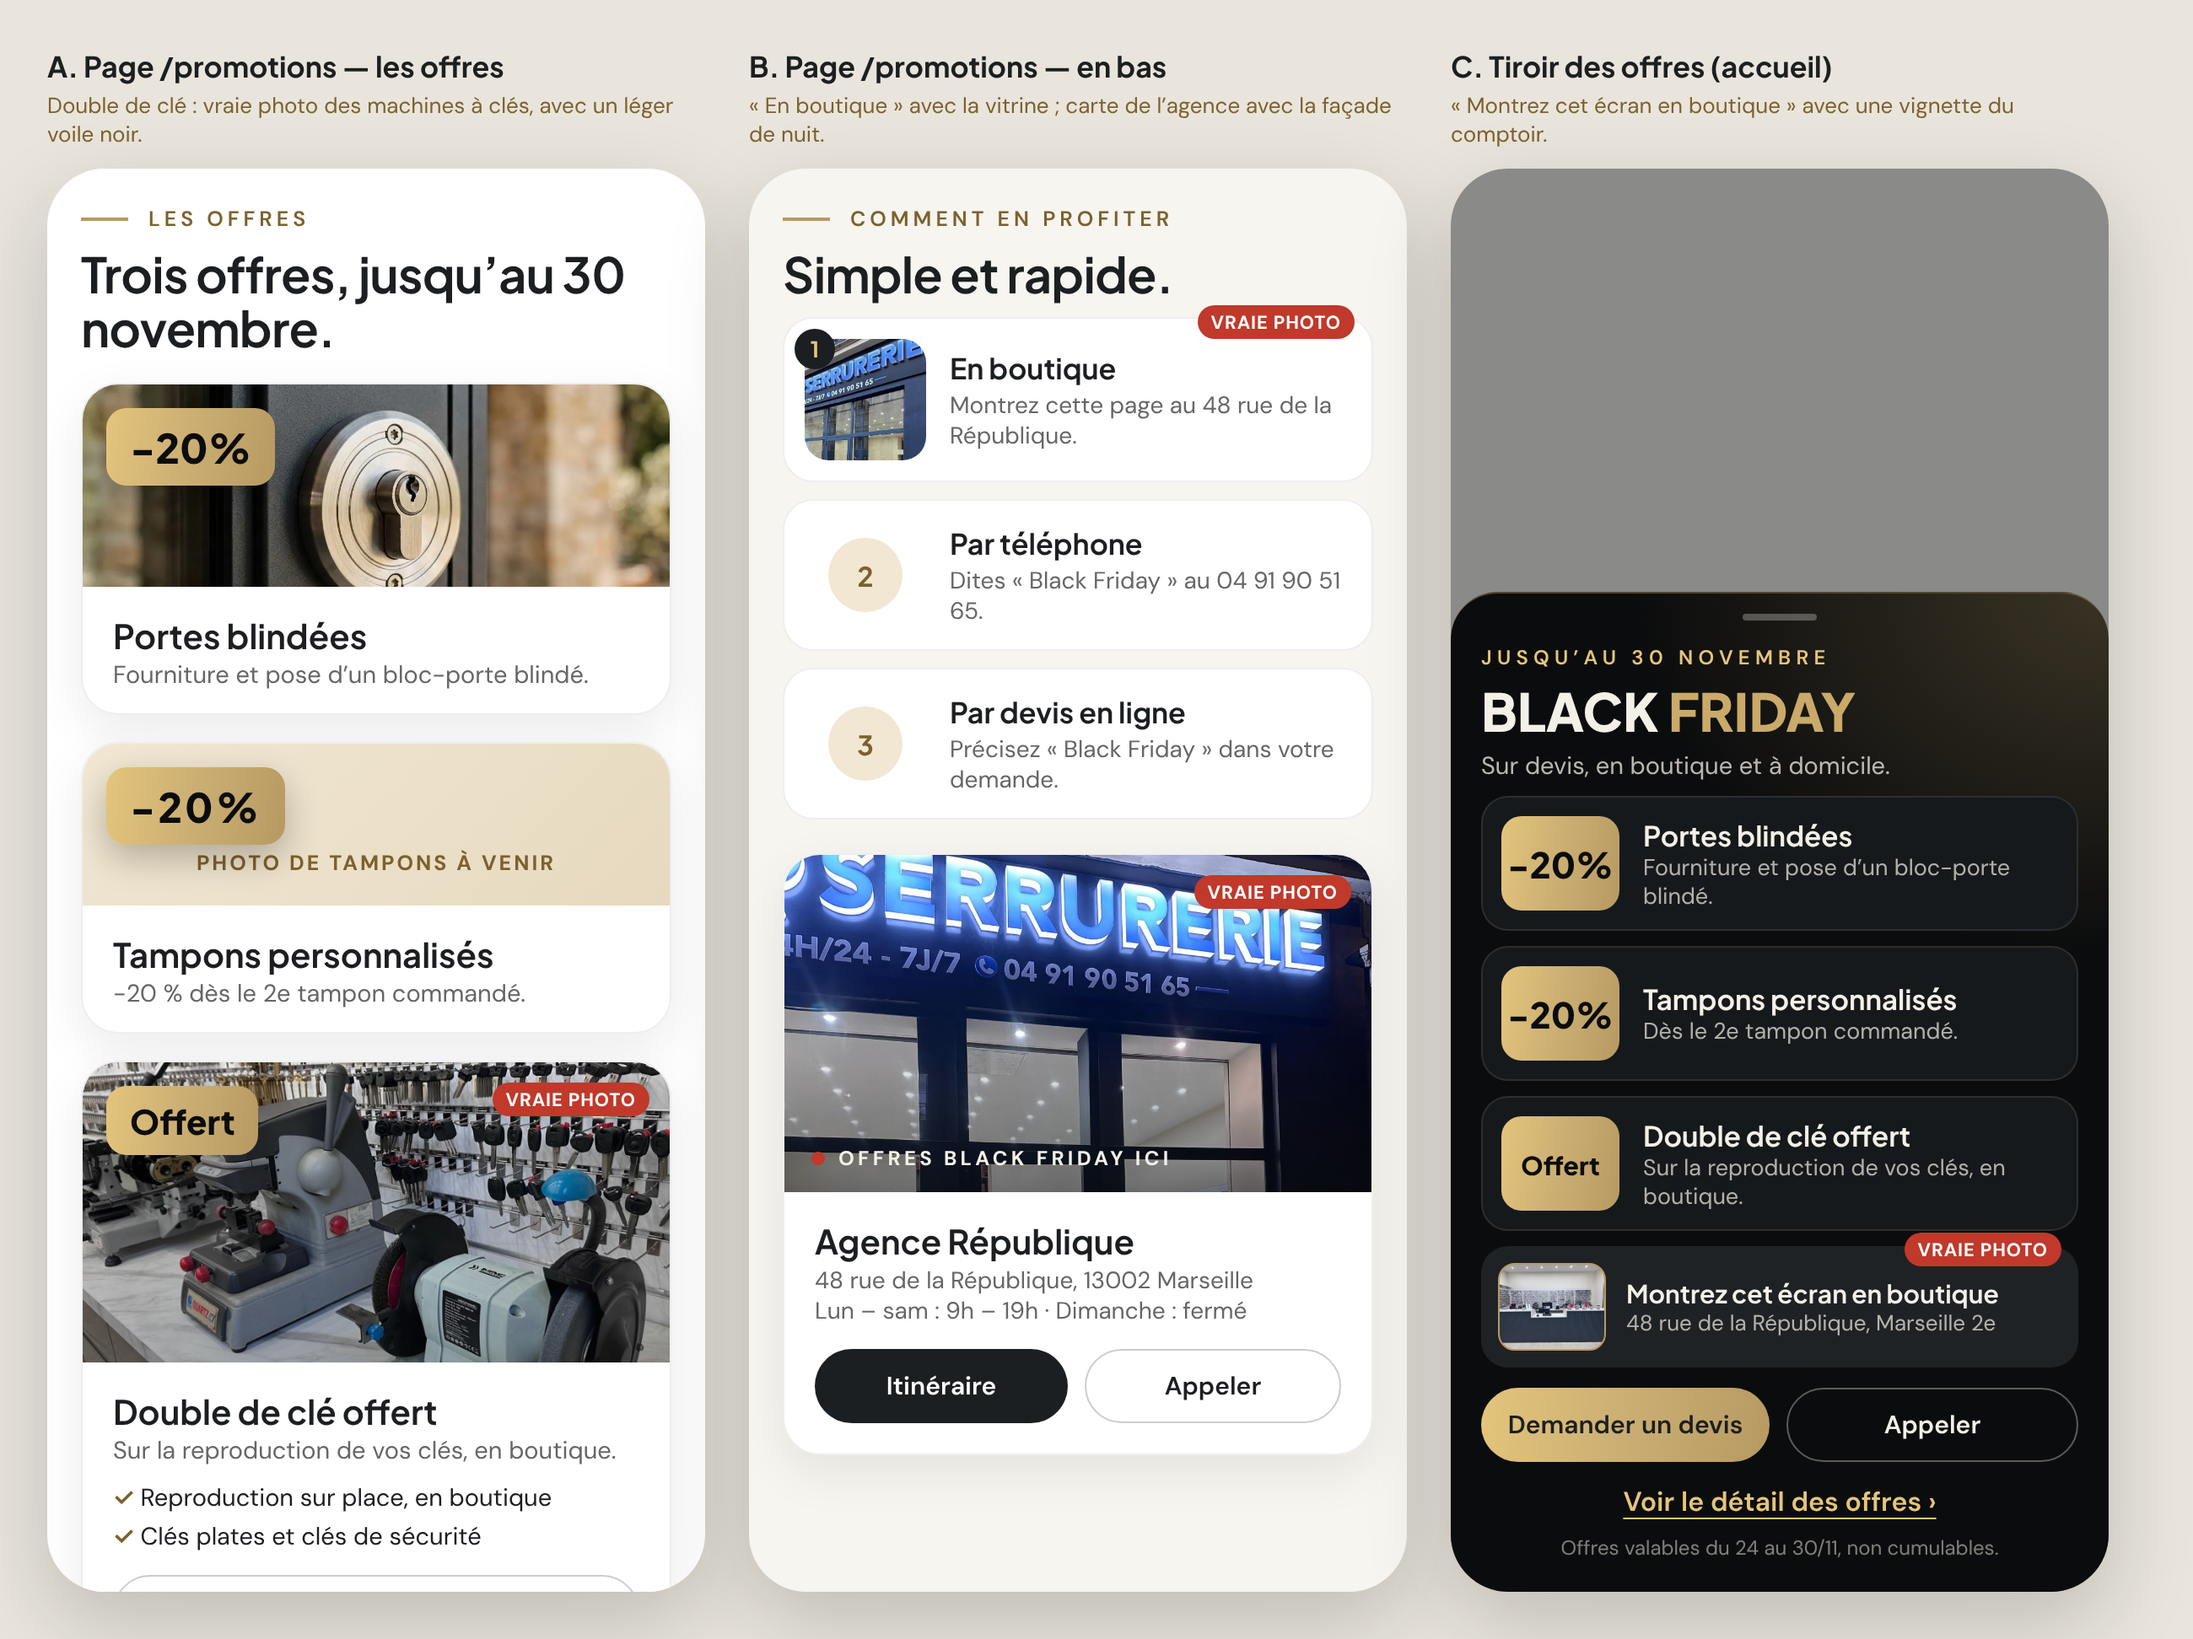
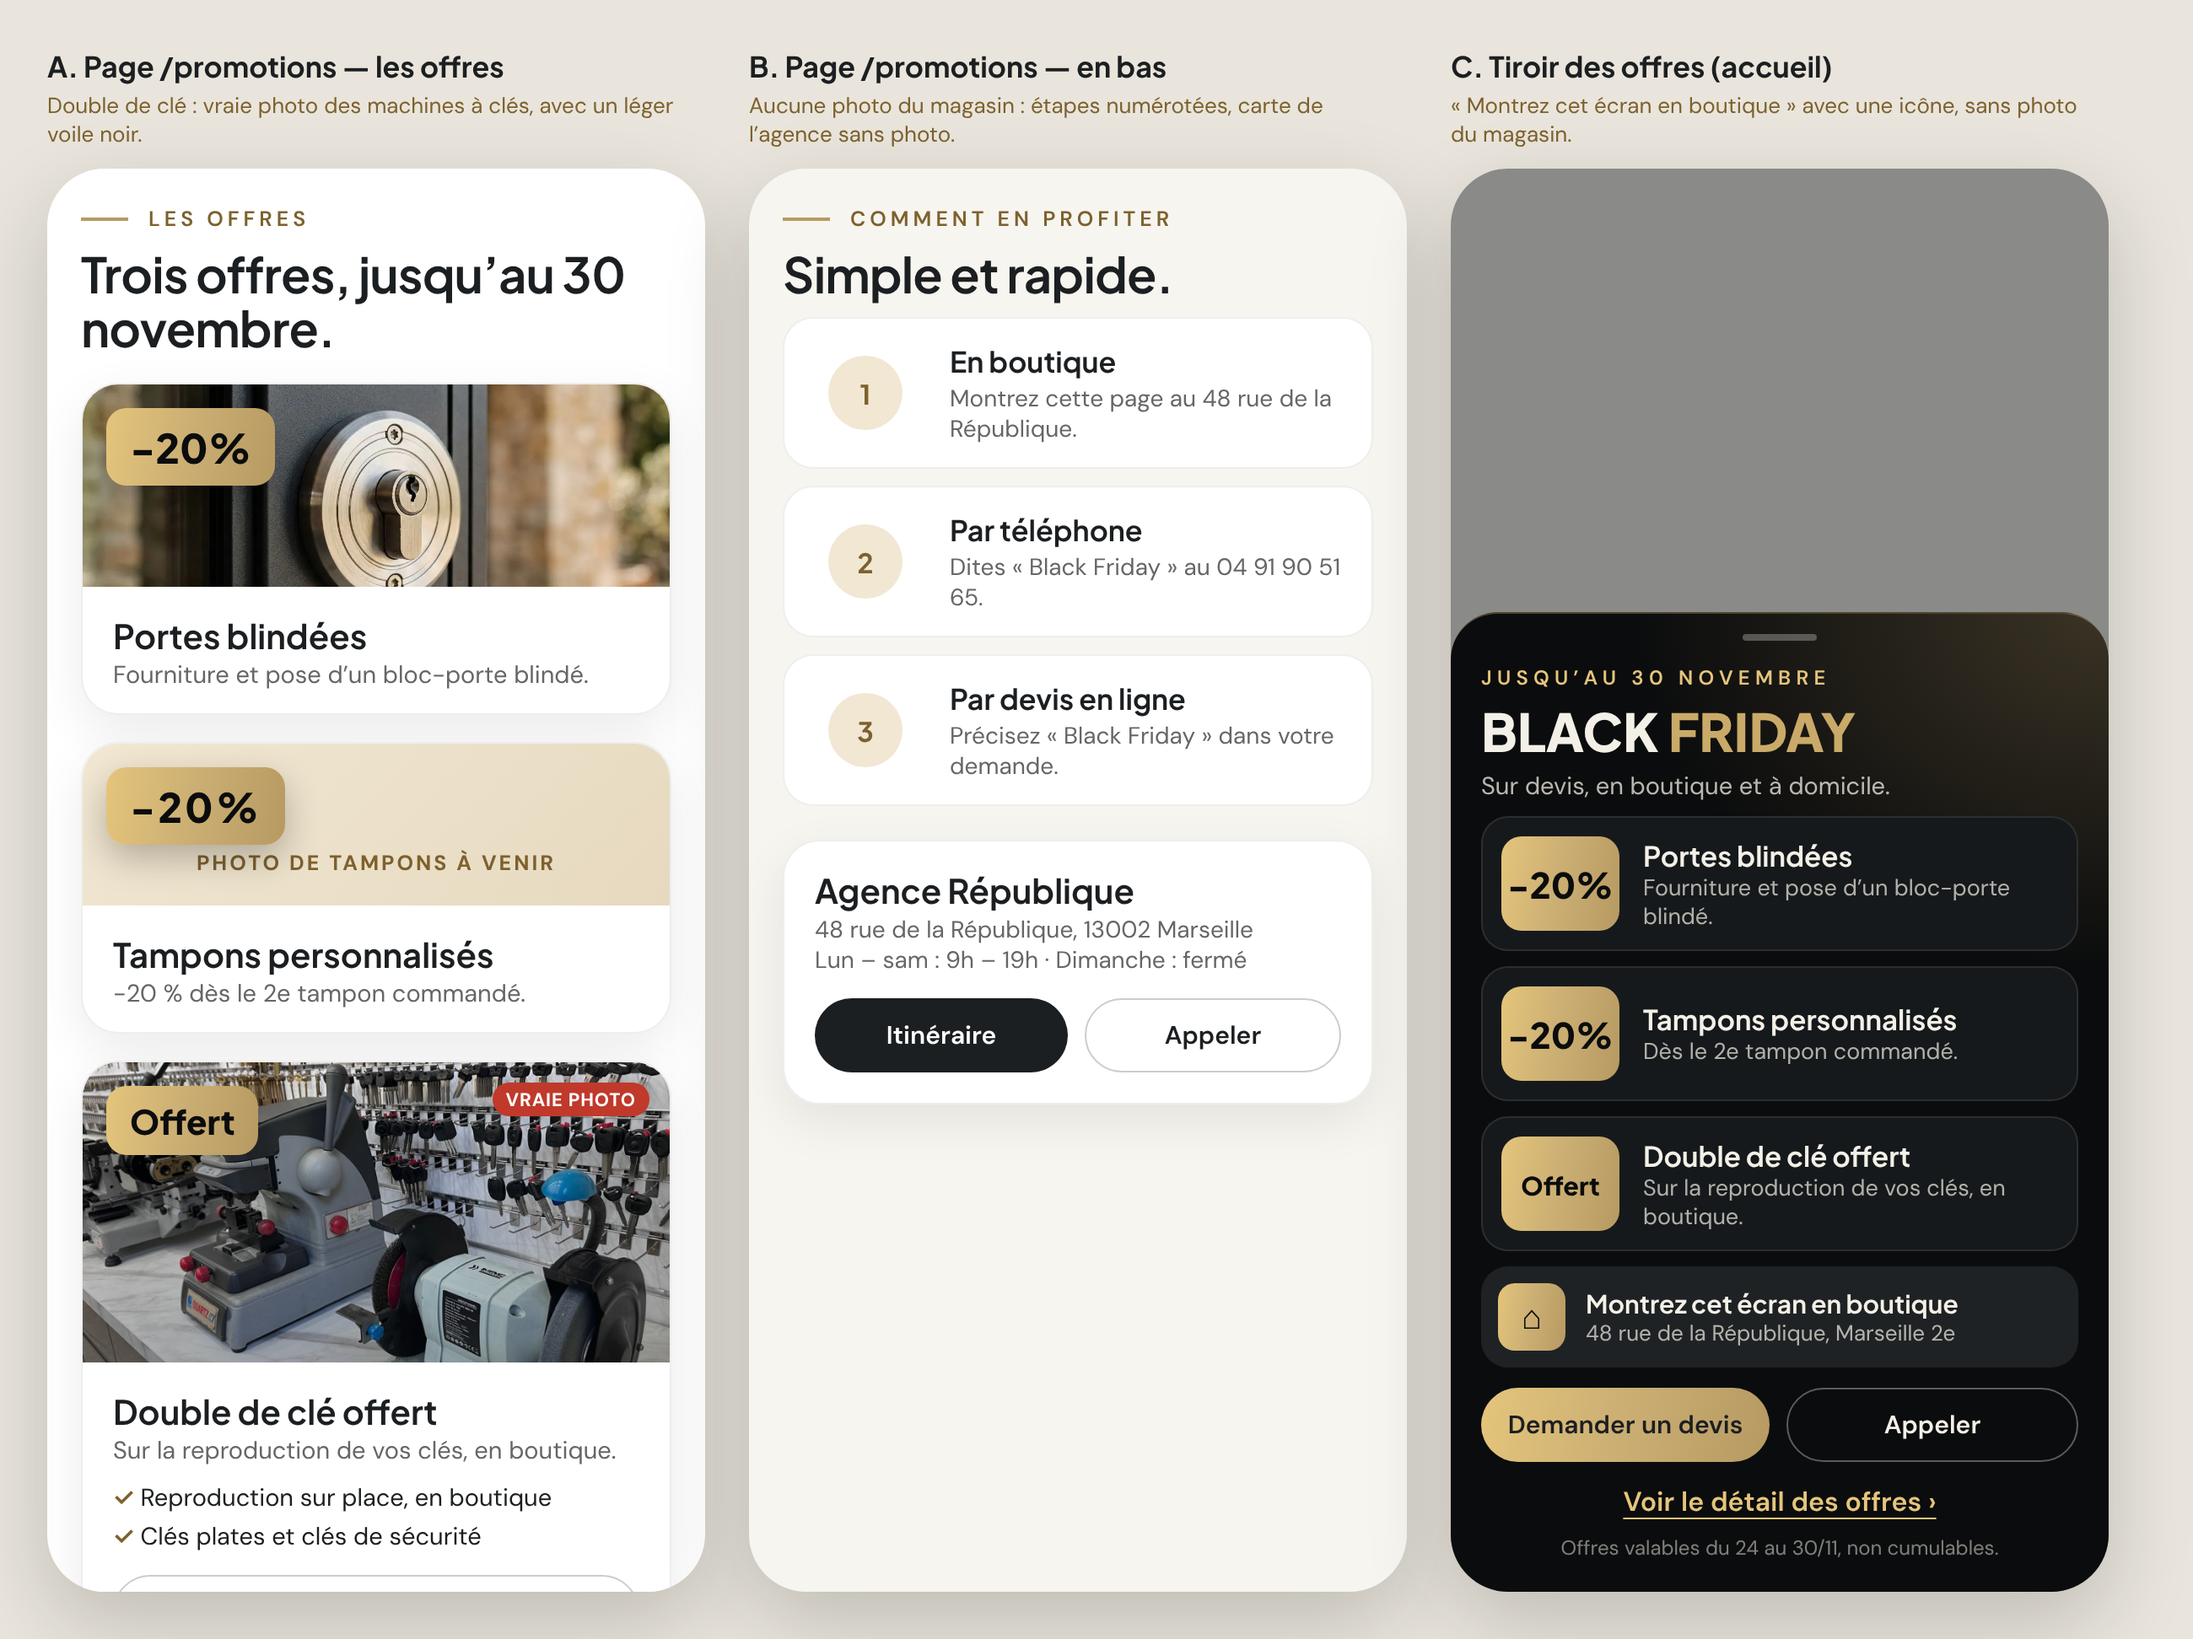
docs: maquettes Black Friday sans aucune photo du magasin (demande du client)
Claude-Session: https://claude.ai/code/session_016XxirD5zi89Axp7kPf75hL

diff --git a/docs/maquettes/black-friday/5-photos-reelles.html b/docs/maquettes/black-friday/5-photos-reelles.html
@@ -46,20 +46,17 @@ ul{list-style:none;margin-top:10px}li{font-size:14.5px;margin-top:5px}li:before{
 <div class="btn out">Venir en boutique</div></div></div>
 </div></div>
 
-<div class="col"><div class="lab">B. Page /promotions — en bas</div><div class="sub">« En boutique » avec la vitrine ; carte de l’agence avec la façade de nuit.</div>
+<div class="col"><div class="lab">B. Page /promotions — en bas</div><div class="sub">Aucune photo du magasin : étapes numérotées, carte de l’agence sans photo.</div>
 <div class="phone ivory" style="padding:22px 20px">
 <div class="kick">Comment en profiter</div><h2>Simple et rapide.</h2>
-<div class="step" style="position:relative"><span class="tag" style="right:10px;top:-8px">VRAIE PHOTO</span><div class="thumb" style="background-image:url(../../../docs/photos-reelles/facade-vitrine.jpg);background-position:center 30%"><span style="position:absolute;left:-6px;top:-6px;width:24px;height:24px;border-radius:50%;background:#1C1F21;color:#E5C57B;font-family:J;font-weight:700;font-size:13px;display:grid;place-items:center">1</span></div><div><div class="t" style="font-size:17px">En boutique</div><div class="s" style="font-size:14px">Montrez cette page au 48 rue de la République.</div></div></div>
+<div class="step" style="padding:14px 12px"><div class="num" style="margin:0 14px">1</div><div><div class="t" style="font-size:17px">En boutique</div><div class="s" style="font-size:14px">Montrez cette page au 48 rue de la République.</div></div></div>
 <div class="step" style="padding:14px 12px"><div class="num" style="margin:0 14px 0 14px">2</div><div><div class="t" style="font-size:17px">Par téléphone</div><div class="s" style="font-size:14px">Dites « Black Friday » au 04 91 90 51 65.</div></div></div>
 <div class="step" style="padding:14px 12px"><div class="num" style="margin:0 14px">3</div><div><div class="t" style="font-size:17px">Par devis en ligne</div><div class="s" style="font-size:14px">Précisez « Black Friday » dans votre demande.</div></div></div>
-<div class="card" style="position:relative;margin-top:20px"><span class="tag" style="right:12px;top:12px">VRAIE PHOTO</span>
-<div class="img" style="height:200px;background-image:linear-gradient(180deg,rgba(11,12,13,0) 55%,rgba(11,12,13,.55)),url(../../../docs/photos-reelles/facade-nuit.jpg);background-position:center 8%">
-<span style="position:absolute;left:16px;bottom:12px;color:#F3F0E7;font-size:12px;letter-spacing:.18em;font-weight:700;text-transform:uppercase"><span style="display:inline-block;width:8px;height:8px;border-radius:50%;background:#C0392B;margin-right:8px"></span>Offres Black Friday ici</span></div>
-<div class="body"><div class="t">Agence République</div><div class="s" style="font-size:14px">48 rue de la République, 13002 Marseille<br>Lun – sam : 9h – 19h · Dimanche : fermé</div>
+<div class="card" style="margin-top:20px"><div class="body"><div class="t">Agence République</div><div class="s" style="font-size:14px">48 rue de la République, 13002 Marseille<br>Lun – sam : 9h – 19h · Dimanche : fermé</div>
 <div style="display:flex;gap:10px"><div class="btn dark" style="flex:1">Itinéraire</div><div class="btn out" style="flex:1">Appeler</div></div></div></div>
 </div></div>
 
-<div class="col"><div class="lab">C. Tiroir des offres (accueil)</div><div class="sub">« Montrez cet écran en boutique » avec une vignette du comptoir.</div>
+<div class="col"><div class="lab">C. Tiroir des offres (accueil)</div><div class="sub">« Montrez cet écran en boutique » avec une icône, sans photo du magasin.</div>
 <div class="phone" style="background:#8a8a88">
 <div class="sheet">
 <div style="width:44px;height:4px;border-radius:9px;background:rgba(243,240,231,.3);margin:0 auto"></div>
@@ -69,8 +66,7 @@ ul{list-style:none;margin-top:10px}li{font-size:14.5px;margin-top:5px}li:before{
 <div class="o"><div class="b gold">-20%</div><div><div class="t" style="font-size:16.5px">Portes blindées</div><div style="font-size:13.5px;opacity:.7">Fourniture et pose d’un bloc-porte blindé.</div></div></div>
 <div class="o"><div class="b gold">-20%</div><div><div class="t" style="font-size:16.5px">Tampons personnalisés</div><div style="font-size:13.5px;opacity:.7">Dès le 2e tampon commandé.</div></div></div>
 <div class="o"><div class="b gold" style="font-size:15px">Offert</div><div><div class="t" style="font-size:16.5px">Double de clé offert</div><div style="font-size:13.5px;opacity:.7">Sur la reproduction de vos clés, en boutique.</div></div></div>
-<div style="position:relative;display:flex;gap:12px;align-items:center;background:#1F2224;border-radius:16px;padding:10px;margin-top:9px"><span class="tag" style="right:10px;top:-8px">VRAIE PHOTO</span>
-<div class="thumb" style="width:64px;height:52px;border-radius:10px;border:1.5px solid #B79A62;background-image:url(../../../docs/photos-reelles/boutique-comptoir.jpg);background-position:center"></div>
+<div style="position:relative;display:flex;gap:12px;align-items:center;background:#1F2224;border-radius:16px;padding:10px;margin-top:9px"><div class="gold" style="width:40px;height:40px;border-radius:10px;display:grid;place-items:center;color:#0B0C0D;font-size:20px;flex:none">⌂</div>
 <div><div class="t" style="font-size:15px">Montrez cet écran en boutique</div><div style="font-size:13px;opacity:.7">48 rue de la République, Marseille 2e</div></div></div>
 <div style="display:flex;gap:10px;margin-top:12px"><div class="btn gold" style="flex:1;margin:0;color:#1C1F21">Demander un devis</div><div class="btn" style="flex:1;margin:0;border:1px solid rgba(243,240,231,.35)">Appeler</div></div>
 <div style="text-align:center;margin-top:13px;color:#E5C57B;font-weight:600;text-decoration:underline;text-underline-offset:4px">Voir le détail des offres ›</div>

diff --git a/docs/maquettes/black-friday/7-ecran-de-depart.html b/docs/maquettes/black-friday/7-ecran-de-depart.html
@@ -23,7 +23,7 @@ body{background:#E9E5DC;font-family:D;color:#F3F0E7;padding:28px;display:flex;ga
 </style></head><body>
 <svg width="0" height="0" style="position:absolute"><defs><symbol id="w" viewBox="0 0 1440 120" preserveAspectRatio="none"><path d="M 0 64 C 155 40, 340 52, 520 74 C 820 111, 1180 98, 1440 8 L 1440 122 L 0 122 Z" fill="#fff"/><path d="M 0 64 C 155 40, 340 52, 520 74 C 820 111, 1180 98, 1440 8" stroke="#D9BD82" stroke-width="3.8" vector-effect="non-scaling-stroke" fill="none"/></symbol></defs></svg>
 
-<div class="col"><div class="lab">A. Photo actuelle + les 3 offres en photos</div><div class="sub">On garde le serrurier en photo et le macaron. Les 3 offres apparaissent en vignettes sous le titre, cliquables (elles ouvrent le tiroir).</div>
+<div class="col"><div class="lab">Écran de départ : photo actuelle + les 3 offres</div><div class="sub">On garde le serrurier en photo et le macaron. Les 3 offres apparaissent en vignettes sous le titre, cliquables (elles ouvrent le tiroir).</div>
 <div class="phone">
  <div class="hd"><img src="../../../src/assets/images/logo_republique_dark.png" style="height:44px"><span style="width:24px;height:14px;border-top:1.5px solid #fff;border-bottom:1.5px solid #B79A62"></span></div>
  <div class="tk gold"><b>BLACK FRIDAY</b>-20 % PORTES BLINDÉES ✦ -20 % TAMPONS DÈS LE 2E ✦ DOUBLE DE CLÉ</div>
@@ -44,28 +44,4 @@ body{background:#E9E5DC;font-family:D;color:#F3F0E7;padding:28px;display:flex;ga
  <div class="bar"><span>Devis</span><span style="display:flex;flex-direction:column;align-items:center"><span class="sos"></span>SOS</span><span>Contact</span></div>
 </div></div>
 
-<div class="col"><div class="lab">B. Écran de départ 100 % Black Friday</div><div class="sub">Pendant la semaine, la photo du haut devient la boutique de nuit. Les 3 offres et le titre restent visibles.</div>
-<div class="phone" style="background:#0B0C0D">
- <div class="hd"><img src="../../../src/assets/images/logo_republique_dark.png" style="height:44px"><span style="width:24px;height:14px;border-top:1.5px solid #fff;border-bottom:1.5px solid #B79A62"></span></div>
- <div class="tk gold"><b>BLACK FRIDAY</b>-20 % PORTES BLINDÉES ✦ -20 % TAMPONS DÈS LE 2E ✦ DOUBLE DE CLÉ</div>
- <div style="height:270px;background:url(../../../docs/photos-reelles/facade-nuit.jpg) center 4%/cover;position:relative;flex:none">
-  <div style="position:absolute;inset:0;background:linear-gradient(180deg,rgba(11,12,13,.1) 30%,#0B0C0D),radial-gradient(90% 60% at 100% 100%,rgba(183,154,98,.25),transparent)"></div>
-  <div style="position:absolute;left:20px;bottom:10px">
-   <div style="font-size:11.5px;letter-spacing:.24em;color:#E5C57B;font-weight:700">JUSQU’AU 30 NOVEMBRE</div>
-   <div style="font-family:J;font-weight:800;font-size:42px;line-height:1;margin-top:5px">BLACK <span style="color:#C9AA68">FRIDAY</span></div>
-  </div>
- </div>
- <div style="padding:0 20px;margin-top:12px">
-  <div style="display:flex;gap:8px">
-   <div class="oc"><div class="oi" style="background-image:url(../../../src/assets/images/domaine_serrurerie_1795289920360.webp)"><span class="op gold">-20%</span></div><div class="ot">Portes blindées</div></div>
-   <div class="oc"><div class="oi" style="background:#1F2224 radial-gradient(80% 90% at 70% 20%,rgba(183,154,98,.35),transparent)"><span class="op gold">-20%</span><span style="position:absolute;right:8px;bottom:6px;font-size:9px;color:#D9BD82;letter-spacing:.1em">PHOTO À VENIR</span></div><div class="ot">Tampons dès le 2e</div></div>
-   <div class="oc"><div class="oi" style="background-image:url(../../../docs/photos-reelles/machines-cles.jpg)"><span class="op gold" style="font-size:11.5px">OFFERT</span></div><div class="ot">Double de clé</div></div>
-  </div>
-  <div class="gold" style="margin-top:14px;height:44px;border-radius:99px;display:flex;align-items:center;justify-content:center;gap:8px;color:#1C1F21;font-weight:700;font-size:15px"><span style="width:9px;height:9px;border-radius:50%;background:#C0392B"></span>Voir les offres Black Friday ›</div>
-  <div class="h1" style="font-size:25px;margin-top:16px">Votre serrurier à Marseille.</div>
-  <div style="font-size:13.5px;opacity:.75;margin-top:4px">Boutique 48 rue de la République, 2e</div>
- </div>
- <svg class="wave"><use href="#w"/></svg>
- <div class="bar"><span>Devis</span><span style="display:flex;flex-direction:column;align-items:center"><span class="sos"></span>SOS</span><span>Contact</span></div>
-</div></div>
 </body></html>

diff --git a/docs/maquettes/black-friday/6-accueil-section-offres.html b/docs/maquettes/black-friday/6-accueil-section-offres.html
@@ -50,11 +50,11 @@ h2{font-family:J;font-weight:650;font-size:29px;line-height:1.12;letter-spacing:
  <div class="bar"><span>Devis</span><span style="display:flex;flex-direction:column;align-items:center"><span class="sos"></span>SOS</span><span>Contact</span></div>
 </div></div>
 
-<div class="col"><div class="lab">Variante — section compacte</div><div class="sub">Plus courte : une photo de la boutique de nuit et les 3 offres en liste.</div>
+<div class="col"><div class="lab">Variante — section compacte</div><div class="sub">Plus courte : bloc noir et or, les 3 offres en liste.</div>
 <div class="phone">
  <div style="height:110px;background:#16191B;position:relative"><svg viewBox="0 0 1440 120" preserveAspectRatio="none" style="position:absolute;left:0;right:0;bottom:-1px;width:100%;height:36px"><path d="M 0 64 C 155 40, 340 52, 520 74 C 820 111, 1180 98, 1440 8 L 1440 122 L 0 122 Z" fill="#fff"/><path d="M 0 64 C 155 40, 340 52, 520 74 C 820 111, 1180 98, 1440 8" stroke="#D9BD82" stroke-width="3.8" vector-effect="non-scaling-stroke" fill="none"/></svg></div>
  <div style="margin:14px 20px 0;border-radius:24px;overflow:hidden;background:#0B0C0D;color:#F3F0E7;box-shadow:0 16px 36px rgba(0,0,0,.2)">
-  <div style="height:170px;background:linear-gradient(180deg,rgba(11,12,13,0) 30%,#0B0C0D),url(../../../docs/photos-reelles/facade-nuit.jpg) center 8%/cover;position:relative">
+  <div style="height:110px;background:#0B0C0D radial-gradient(90% 90% at 100% 0%,rgba(183,154,98,.35),transparent 65%);position:relative">
    <div style="position:absolute;left:18px;bottom:6px"><div style="font-size:11.5px;letter-spacing:.24em;color:#E5C57B;font-weight:600">JUSQU’AU 30 NOVEMBRE</div>
    <div style="font-family:J;font-weight:800;font-size:30px;line-height:1.05;margin-top:4px">BLACK <span style="color:#C9AA68">FRIDAY</span></div></div>
   </div>
